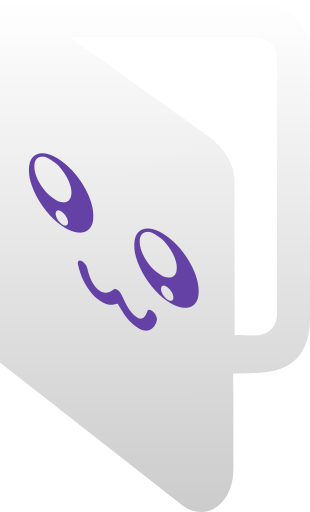
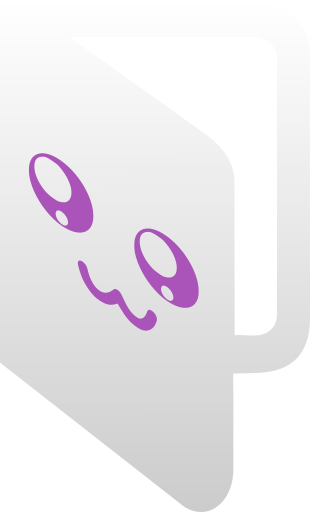
🍱 Update assets

Changed region(s): [[0.2323, 0.4375, 0.6387, 0.6562], [0.0871, 0.2812, 0.3194, 0.4688]]

diff --git a/src/options/style.css b/src/options/style.css
@@ -7,10 +7,10 @@
   --font-primary: "Inter", "Roobert", "Helvetica Neue", Helvetica, Arial,
     sans-serif;
 
-  --brand-color: #9147ff;
+  --brand-color: #aa51b8;
   --ui-background-color: #151619;
 
-  --text-primary: #c9cbcd;
+  --text-primary: #e4e6e7;
   --text-secondary: #8d9296;
 
   --input-background-color: #1d1f23;
@@ -23,8 +23,8 @@
   --button-background-color-hover: #464953;
   --button-text-primary: #c3c4ca;
 
-  --link: #9d5cff;
-  --link-hover: #af7aff;
+  --link: #be68ce;
+  --link-hover: #cc88d8;
 
   --header-height: 2.5rem;
 }
@@ -36,6 +36,10 @@ body {
   accent-color: var(--brand-color);
   font-size: 100%;
   font-family: var(--font-primary);
+}
+
+main {
+  margin-left: 1.5rem;
 }
 
 ::-moz-selection,

diff --git a/src/options/page.html b/src/options/page.html
@@ -16,9 +16,10 @@
         <img src="../images/brand/logo.png" alt="TTV LOL" />
       </div>
     </header>
-    <main>
-      <h1>Options</h1>
 
+    <h1>Options</h1>
+
+    <main>
       <!-- Proxy Usher requests -->
       <section class="section">
         <h2>Passport</h2>

diff --git a/src/popup/style.css b/src/popup/style.css
@@ -79,7 +79,7 @@ main > * {
 }
 
 .logo-wrapper > img {
-  width: 60%;
+  width: 80%;
 }
 
 /* Stream status */
